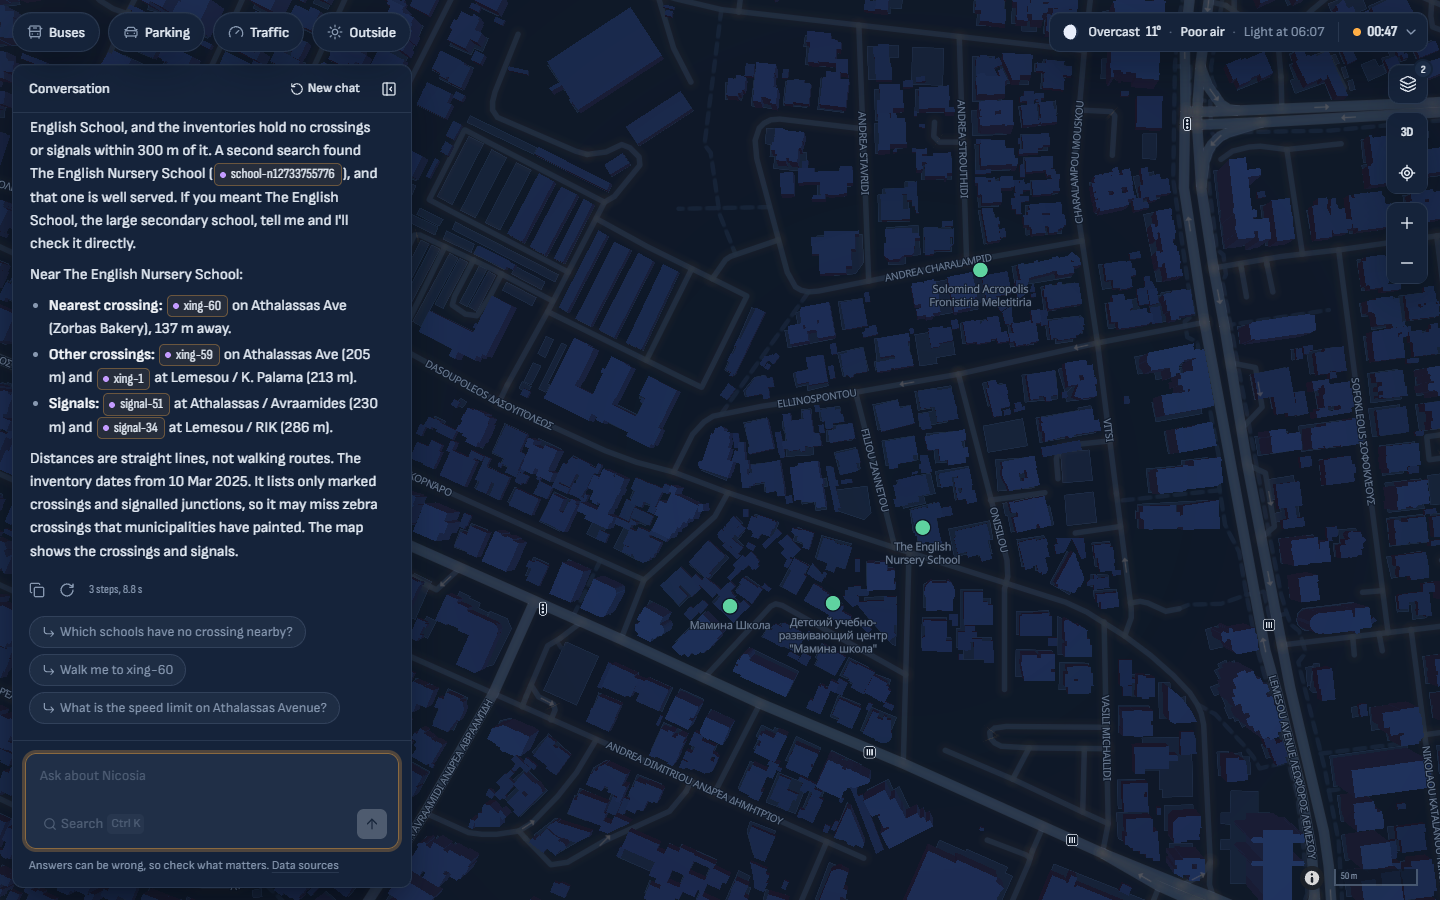
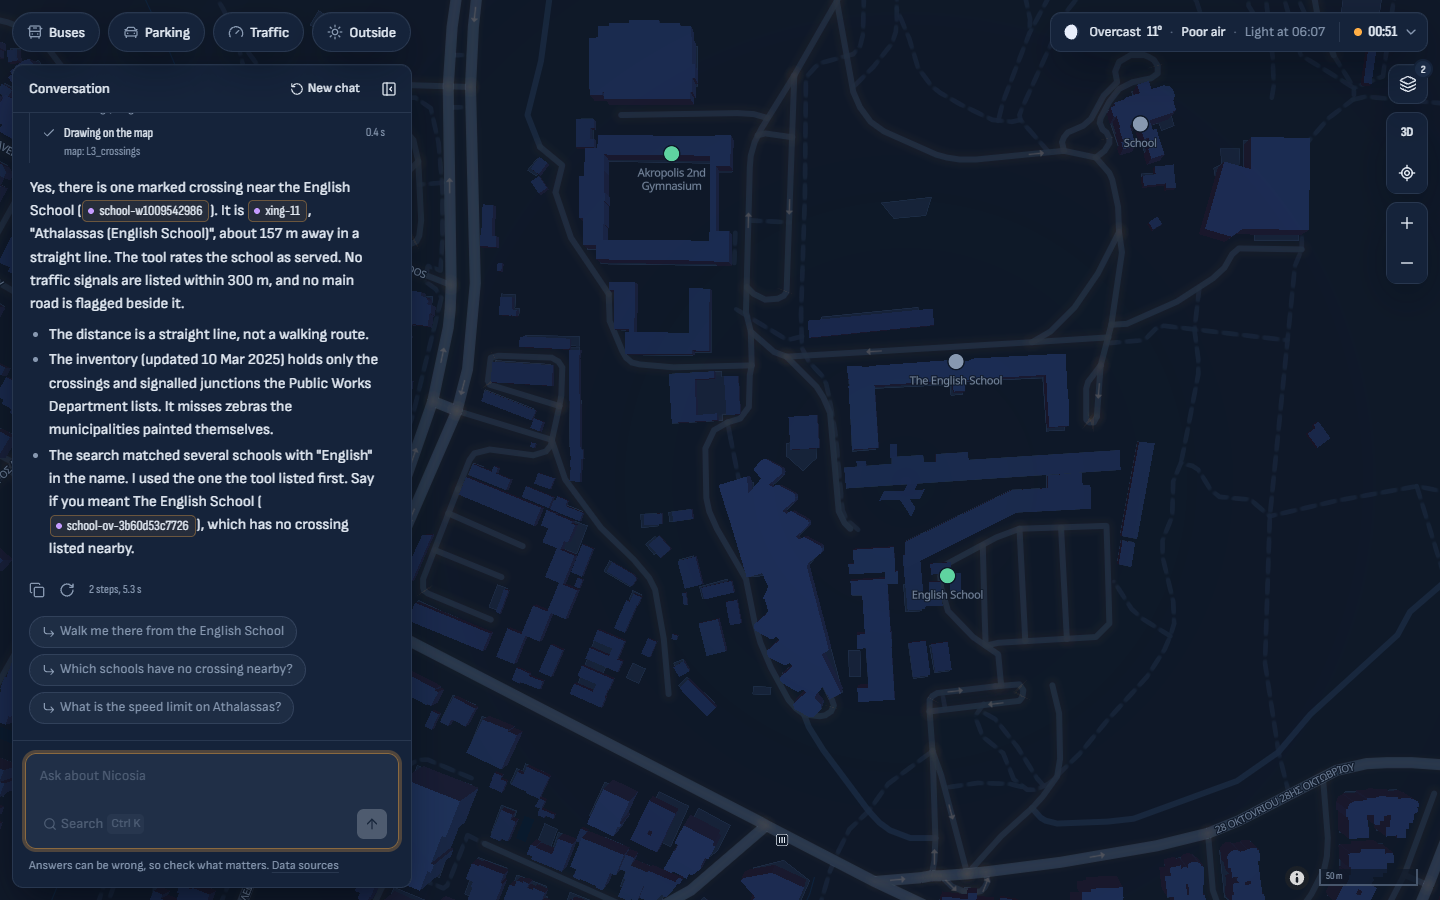
Docs: the street rules, where they come from and how sure each limit is

diff --git a/docs/street-rules.md b/docs/street-rules.md
@@ -1,0 +1,83 @@
+# Street rules and safety
+
+The twin knows the rules and safety features of Nicosia's streets: speed limits, 20 and 30 km/h
+zones, traffic signals, pedestrian crossings, cycleways, bus lanes and enforcement cameras. They
+come from national inventories, not readings, so they stand at every moment of the city clock
+and always say how old they are.
+
+## Where it comes from
+
+Seven DATEX II files on the Cyprus National Access Point (traffic4cyprus.org.cy, CC BY 4.0),
+served from `https://fixcyprus.cy/gnosis/open/api/nap/datasets/<name>/` and regenerated nightly.
+The Public Works Department publishes all but the cameras (Elovate, for the Ministry of
+Transport). The catalogue says when each was last changed by its publisher (March 2025 for most,
+May 2025 for the zones, November 2025 for the cameras).
+
+| Inventory | Island | Greater Nicosia | Notes |
+| --- | --- | --- | --- |
+| `speed_limits` | 2,059 signs | 333 | a value at a point, with a national road reference (B00220, E10030) |
+| `low_speed_emission_zones` | 8 zones | 3 | Aglantzia, Kaimakli, Pallouriotissa; all **planned**; latitude and longitude written swapped |
+| `low_speed_emission_entrance_point` | 124 | 39 | small polygons, read as their centres |
+| `traffic_signals` | 363 | 161 | the junction's streets and the council that runs it |
+| `pedestrian_crossings` | 384 | 129 | a comment naming the street and what it is near |
+| `cycleways` | 48 lines | 8 | some records hold many polylines |
+| `bus_lanes` | 26 lines | 12 | every element in its own numbered namespace; in use or planned |
+| `traffic_enforcement_cameras` | 89 | 20 | four placed to two decimals only (about a kilometre) |
+
+`chatbot/streets/feeds.py` reads each file at most once a day for every page and tool, keeps it
+in `data/chatbot_cache/streets/`, reads everything by local tag name, puts swapped coordinates
+right (in Cyprus the latitude is always the larger number), and keeps yesterday's copy when a
+fetch fails.
+
+The street network comes from OpenStreetMap: one Overpass query a week for Greater Nicosia's
+drivable streets (names, classes, OSM's own `maxspeed` tags) and its schools, kept compact on
+disk (`chatbot/streets/network.py`).
+
+## What a speed sign governs
+
+A sign is a point; a limit applies to a stretch. Each sign is snapped to its street (within 35 m,
+preferring the class its national road reference implies) and its limit carried along that
+street, through junctions while the street keeps its name, up to 800 m or until the next sign.
+Each piece says how sure it is:
+
+- **signed**: within 250 m of a sign, or between two signs that agree;
+- **likely**: further along from one sign, with nothing saying otherwise;
+- **uncertain**: between two signs that disagree, away from both: the limit changes somewhere
+  there, and the inventory says neither where nor which way each sign faces;
+- **mapped**: no national sign reaches the street, but OpenStreetMap's contributors tagged it.
+
+A street neither reaches is left out: 50 km/h is the urban default, not a posted limit. On the
+inventory of 27 November 2026 the signs cover about 72 km signed, 35 km likely and 36 km
+uncertain; OpenStreetMap adds 537 km.
+
+## What it adds to the rest of the twin
+
+- **Road speeds**: each Bluetooth segment gets its posted limit along most of its length (74 of
+  the 97 segments), shown beside its measured speed ("limit 50, traffic at 34") in the inspector
+  and in `get_road_speeds`. A road with no better free flow uses its posted limit in place of the
+  assumed 50 km/h (one hook, `Roads.posted_limit`, in `chatbot/mobility/roads.py`).
+- **Schools and bus stops**: how each is served for crossing (`chatbot/streets/analysis.py`): a
+  crossing or signals within 250 m of a school or 120 m of a stop, the main road beside it and its
+  posted limit, its slow zone. A gap is a main road posted 50 km/h or more with neither. Places
+  north of the buffer zone are left out: the inventories don't cover them.
+- **The cycle network**: lines whose ends come within 25 m are one piece; the gaps are the
+  shortest straight links (under 1.2 km) between pieces, each with the street it would run along.
+- **Slow zones**: the streets inside, the signs posted inside (none yet), its crossings, signals,
+  schools and entrances.
+
+## In the page and in chat
+
+- The Layers sheet's **Streets** group: speed limits, 20 and 30 zones, signals and crossings,
+  cycleways, bus lanes, enforcement cameras. Off by default.
+- Entity kinds: `limit-295` (a sign and its stretch), `limitway-<osm way>` (a mapped street),
+  `zone-1`, `zentry-1`, `signal-0`, `xing-0`, `ecam-30`, `cycle-38`, `buslane-11`, `school-w123`.
+  Zones, cameras, lanes, signals and crossings are searchable in Ctrl K.
+- Chat tools: `get_speed_limits`, `find_slow_zones`, `find_crossings` (also around schools or bus
+  stops), `get_cycle_network`, `get_bus_lanes`, `find_enforcement_cameras`.
+- `/api/streets/layers/<name>` and `/api/streets/status` for the page; every inventory is a data
+  source with its date in `/api/sources`.
+
+## Left out
+
+The ITS inventories (detector, CCTV and weigh-in-motion sites) belong to another pull request.
+The live detector feed (`MeasuredDataPublication`) still carried no values on 27 November 2026.

diff --git a/CLAUDE.md b/CLAUDE.md
@@ -45,6 +45,12 @@ npm run build                     # writes chatbot/static (committed, see below)
   (heavy, kept out of git in `data/dls_lidar/`), measures every DLS building on them, and
   compares them with the 2014 survey. The twin reads two small files it writes
   (`data/lidar_*_2019.json.gz`), never the sheets ([docs/lidar-2019.md](docs/lidar-2019.md)).
+- `chatbot/streets/` is the street rules: the National Access Point's inventories (speed signs,
+  slow zones, signals, crossings, cycleways, bus lanes, enforcement cameras) read once a day, the
+  OpenStreetMap street network read once a week, what each speed sign governs with how sure it
+  is, and the school, stop, cycle and zone analyses. One `Streets` on the Agent; the road speeds
+  read posted limits from it; the page side is `lib/streets/` and `components/streets/`
+  ([docs/street-rules.md](docs/street-rules.md)).
 - `chatbot/environment/` is the environment twin: the sun's path, shade and sun hours from the
   DLS 3D buildings (`shade.py`), air, noise and temperature surfaces with their uncertainty
   (`surfaces.py`), the Open-Meteo grids and the wind, the RainViewer radar, and the `spot` kind
